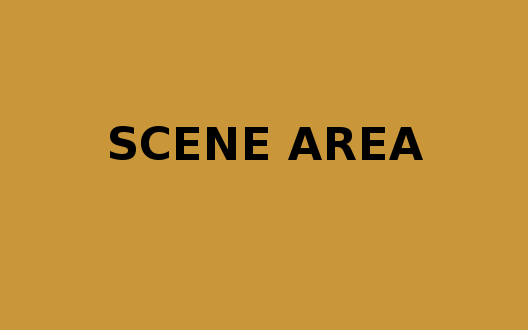
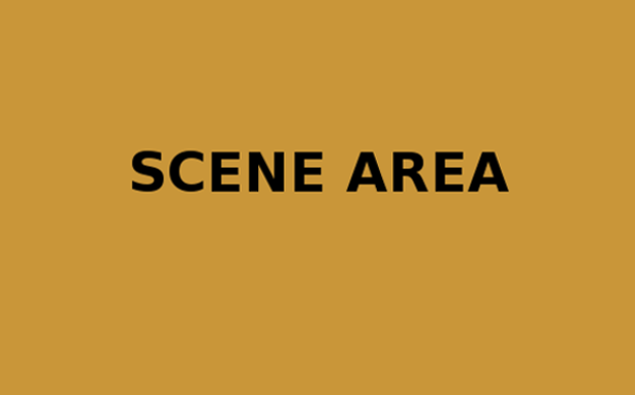
image scaling fixed

Changed region(s): [[0.1818, 0.3636, 0.5152, 0.4848], [0.5455, 0.3636, 0.7879, 0.4848]]

diff --git a/src/texture.cpp b/src/texture.cpp
@@ -77,13 +77,25 @@ bool Texture::loadFromText(TTF_Font *font, std::string text, SDL_Color text_colo
 	return SDLtex = NULL;
 }
 
-void Texture::draw(int x, int y, SDL_Rect *rect_clip, double angle, SDL_Point *center, SDL_RendererFlip render_flip)
+void Texture::draw(int x, int y, SDL_Rect *src_clip, SDL_Rect *dst_rect, double angle, SDL_Point *center, SDL_RendererFlip render_flip)
 {
-	SDL_Rect renderQ = {x, y, width, height};
-	if (rect_clip != nullptr)
-	{
-		renderQ.w = rect_clip->w;
-		renderQ.h = rect_clip->h;
+//	SDL_Rect renderQ = {x, y, width, height};
+//	if (dst_rect != nullptr) {
+//		renderQ.w = rect_clip->w;
+//		renderQ.h = rect_clip->h;
+//	}
+	SDL_Rect srcClip = {0, 0, width, height};
+	if (src_clip != nullptr) {
+		srcClip.x = src_clip->x;
+		srcClip.y = src_clip->y;
+		srcClip.w = src_clip->w;
+		srcClip.h = src_clip->h;
 	}
-	SDL_RenderCopyEx(SDLrenderer, SDLtex, rect_clip, &renderQ, angle, center, render_flip);
+	SDL_Rect renderQuad = {x, y, width, height};
+	if (dst_rect != nullptr) {
+		renderQuad.w = dst_rect->w;
+		renderQuad.h = dst_rect->h;
+	}
+
+	SDL_RenderCopyEx(SDLrenderer, SDLtex, &srcClip, &renderQuad, angle, center, render_flip);
 }

diff --git a/src/main.cpp b/src/main.cpp
@@ -214,19 +214,19 @@ int main(void)
 
 		SDL_RenderFillRect(renderer, &backdropRect);
 
-		defaultScene.draw(70, 72);
+		defaultScene.draw(28, 30);
 
-		infoBackground.draw(70 , 474);
+		infoBackground.draw(28, 460);
 
-		seperatorBar.draw(668, 0);
+		seperatorBar.draw(700, 0);
 
-		titleItem3.draw(833,425,&subItem);
-		titleItem4.draw(1161,425,&subItem);
-		titleItem2.draw(785,335,&subItem);
-		titleItem5.draw(1209,335,&subItem);
-		titleItem1.draw(909, 235);
+		titleItem3.draw(843, 420, nullptr, &subItem);
+		titleItem4.draw(1171, 420, nullptr, &subItem);
+		titleItem2.draw(795, 330, nullptr, &subItem);
+		titleItem5.draw(1219, 330, nullptr, &subItem);
+		titleItem1.draw(919, 230);
 
-		beginButton.draw(919, 660);
+		beginButton.draw(929, 635);
 
 
 

diff --git a/src/texture.h b/src/texture.h
@@ -34,7 +34,7 @@ class Texture
 
     bool load(const std::string &path);
 
-    void draw(int x = 0, int y = 0, SDL_Rect *clip = NULL, double angle = 0.0,
+	void draw(int x = 0, int y = 0, SDL_Rect *src_clip = NULL, SDL_Rect *dst_rect = NULL, double angle = 0.0,
 	      SDL_Point *center = NULL, SDL_RendererFlip flip = SDL_FLIP_NONE);
 
     void free();

diff --git a/src/sdl_graphics.cpp b/src/sdl_graphics.cpp
@@ -21,7 +21,7 @@ bool SDL_graphics::init()
     }
     else
     {
-        if (!SDL_SetHint(SDL_HINT_RENDER_SCALE_QUALITY, "1"))
+		if (!SDL_SetHint(SDL_HINT_RENDER_SCALE_QUALITY, "1"))
         {
             printf("Warning: Linear texture filtering not enabled!");
         }
